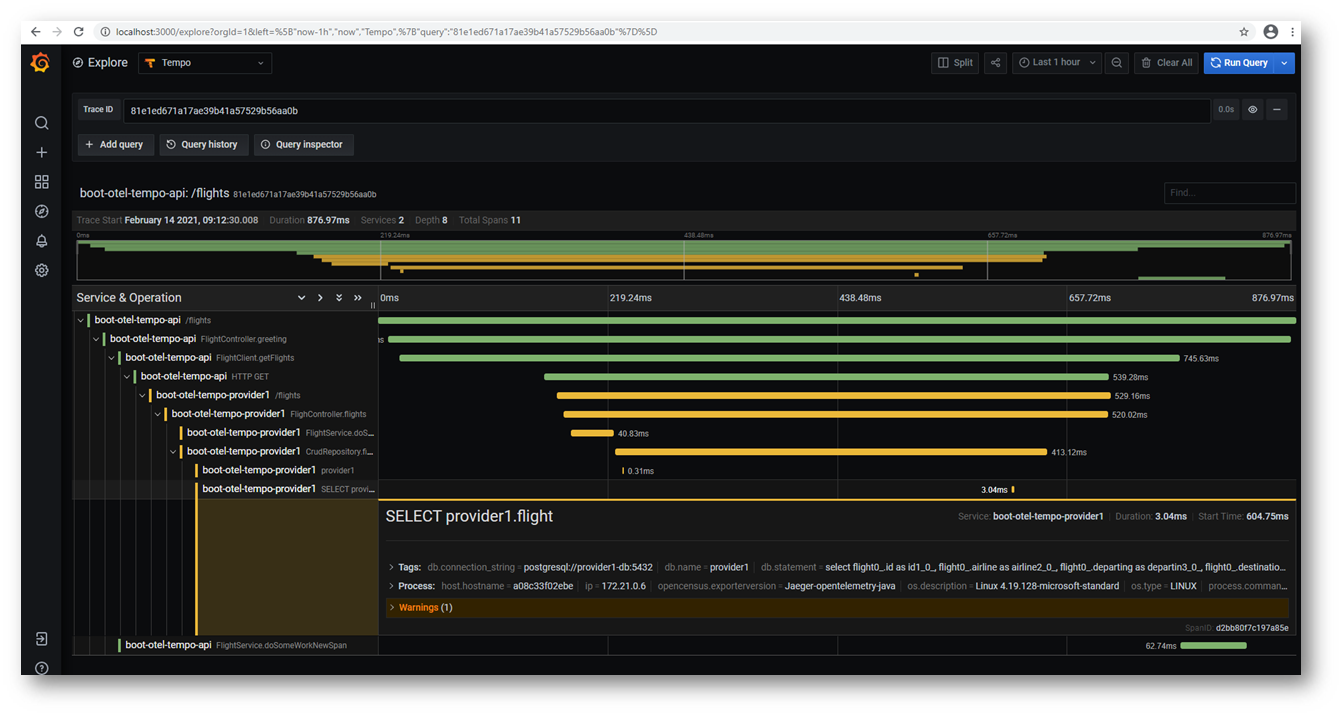
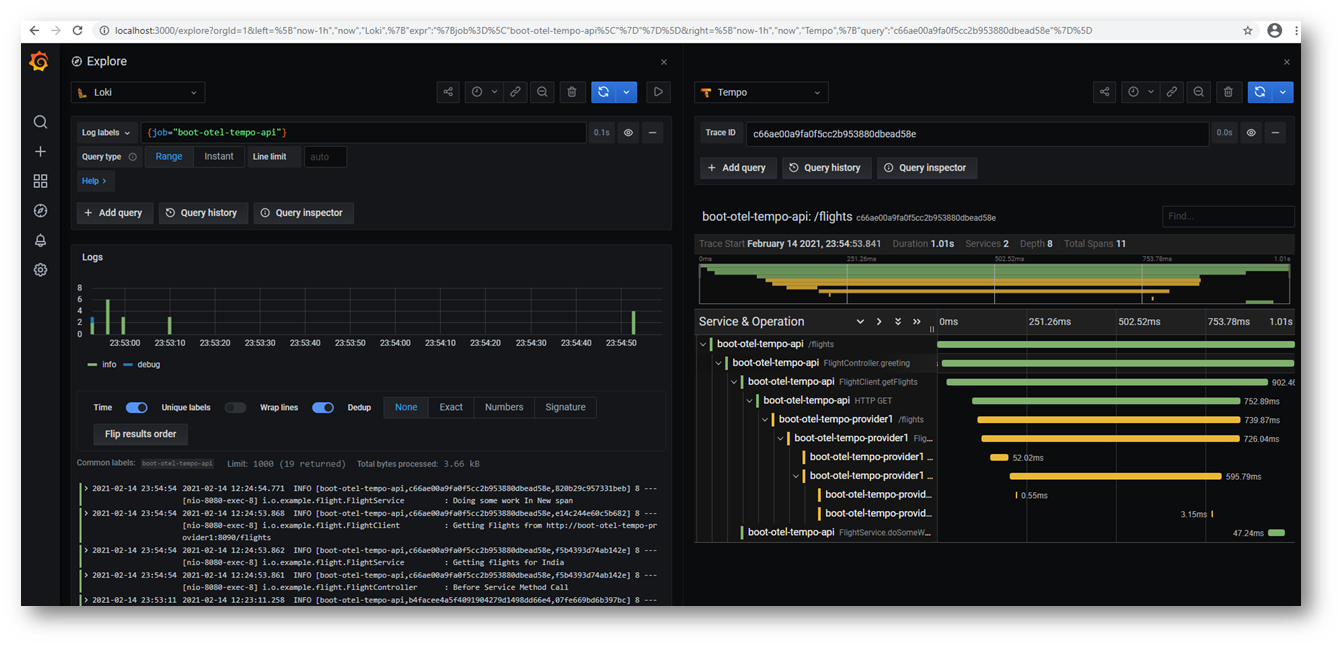
docs

diff --git a/README.md b/README.md
@@ -6,9 +6,14 @@ This is a demo project to demonstrate how we can integrate the following
 * [Grafan Tempo](https://grafana.com/oss/tempo/) Which internally utilized [Jaeger](https://www.jaegertracing.io/)
 * [Spring Boot Project](https://spring.io/projects/spring-boot)
 
+It basically integrates The following
+
+* [Prometheus](https://prometheus.io/) for monitoring and alerting
+* [Loki](https://grafana.com/oss/loki/) for Distributed Logging
+* [Tempo](https://grafana.com/oss/tempo/) for Distributed Tracing
+* [Grafan](https://grafana.com/) for visualization
+
 # Running
-
-
 
 Execute the following on root folder
 
